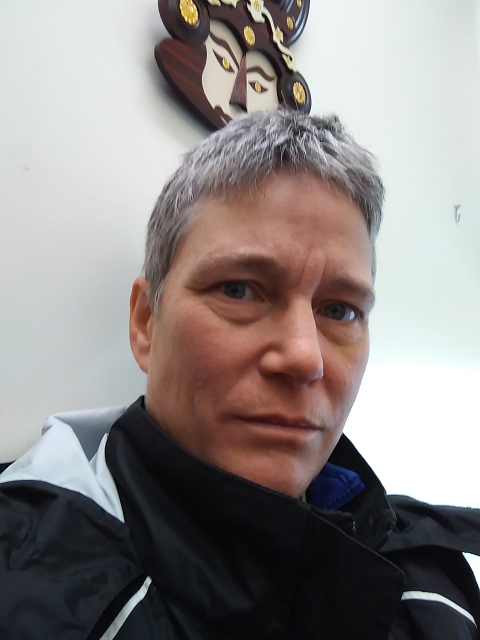
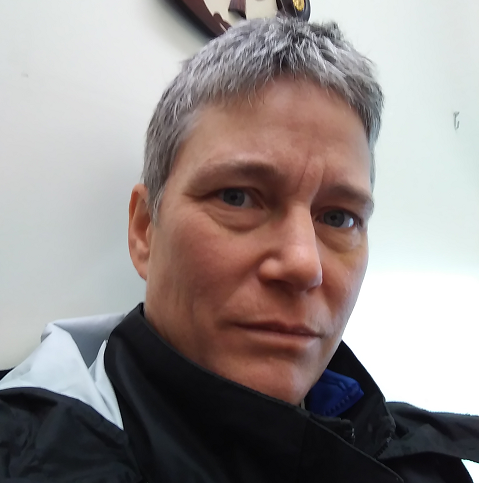
make Eli img square

diff --git a/_posts/2000-01-07-contact.md b/_posts/2000-01-07-contact.md
@@ -7,7 +7,7 @@ fa-icon: at
 
 <p style="float: left; font-size: 14pt; text-align: center; width: 30%; margin-right: 1%; margin-bottom: 0.5em;"><img src="img/Eli.png" style="width: 100%;border-radius:50%"><a href="http://eeholmes.github.io">Eli Holmes</a></p>
 <p style="float: left; font-size: 14pt; text-align: center; width: 30%; margin-right: 1%; margin-bottom: 0.5em;"><img src="img/Mark.jpg" style="width: 100%;border-radius:50%"><a href="https://faculty.washington.edu/scheuerl/">Mark Scheuerell</a></p>
-<p style="float: left; font-size: 14pt; text-align: center; width: 30%; margin-right: 1%; margin-bottom: 0.5em;"><img src="img/Eric.png" style="width: 100%;border-radius:50%"><a href="http://eric-ward.github.io">Eli Holmes</a></p>
+<p style="float: left; font-size: 14pt; text-align: center; width: 30%; margin-right: 1%; margin-bottom: 0.5em;"><img src="img/Eric.png" style="width: 100%;border-radius:50%"><a href="http://eric-ward.github.io">Eric Ward</a></p>
 <p style="clear: both;">
 
 
